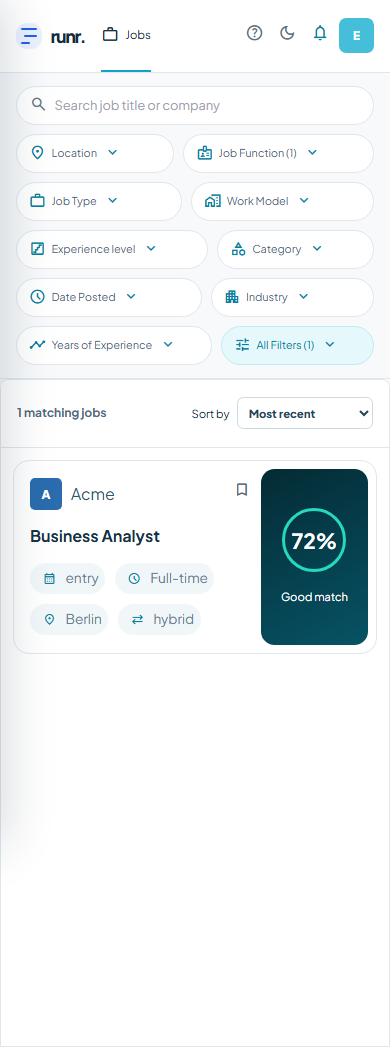
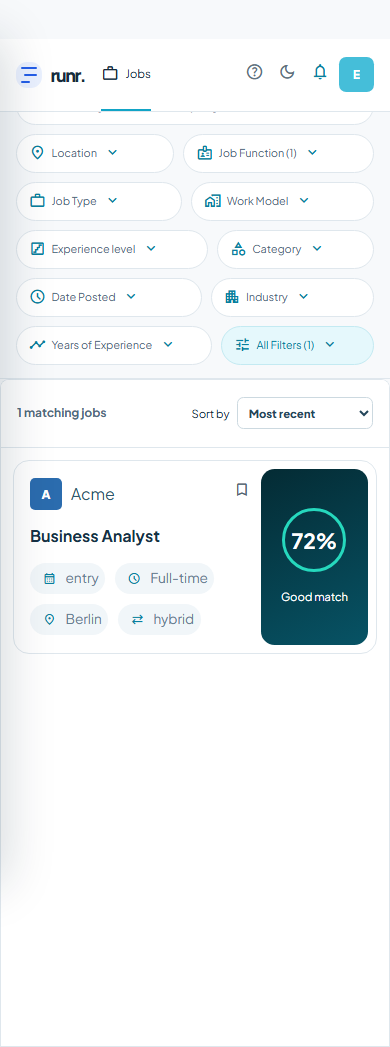
Verify CV-seeded profile matching and preserve profile edits

diff --git a/frontend/src/pages/ProfilePage.jsx b/frontend/src/pages/ProfilePage.jsx
@@ -67,7 +67,7 @@ export default function ProfilePage() {
   return <div className="career-profile">
     <header className="career-heading"><div><span className="career-eyebrow">Your career profile</span><h1>Profile</h1><p>Job matching uses this saved profile. Uploaded or tailored resumes do not change your match.</p></div><div><button className="career-button career-button--quiet" onClick={() => window.print()} type="button"><Icon>visibility</Icon>Preview profile</button><button className="career-button" disabled={saving || (!dirty && !preferencesDirty)} onClick={saveChanges} type="button"><Icon>save</Icon>{saving ? "Saving…" : "Save changes"}</button></div></header>
 
-    <section className="career-overview"><div className="career-avatar">{initials || "R"}</div><div className="career-identity"><h2>{name}</h2><p>{profile.role_title || "Add your role"} · {profile.location || "Add your location"}</p><span>Profile preview data</span></div><div className="career-completion"><div style={{ "--completion": `${completion * 3.6}deg` }}><strong>{completion}</strong></div><p><b>{completion}% complete</b><span>Add dated work experience, skills and industries to improve matching.</span></p><button onClick={() => openTab("preferences")} type="button">Finish profile</button></div><div className="career-ready"><Icon>verified</Icon><div><b>Match-ready</b><span>Your profile can support evidence-aware ranking.</span></div></div></section>
+    <section className="career-overview"><div className="career-avatar">{initials || "R"}</div><div className="career-identity"><h2>{name}</h2><p>{profile.role_title || "Add your role"} · {profile.location || "Add your location"}</p><span>Profile preview data</span></div><div className="career-completion"><div style={{ "--completion": `${completion * 3.6}deg` }}><strong>{completion}</strong></div><p><b>{completion}% complete</b><span>Add dated work experience, skills and industries to improve matching.</span></p><button onClick={() => openTab("preferences")} type="button">Finish profile</button></div><div className="career-ready"><Icon>verified</Icon><div><b>Profile-based matching</b><span>Saved skills and dated work support your job matches.</span></div></div></section>
 
     <nav className="career-tabs" aria-label="Profile sections">{tabs.map((tab) => <button className={activeTab === tab ? "is-active" : ""} key={tab} onClick={() => openTab(tab)} type="button">{tabLabels[tab]}</button>)}</nav>
 

diff --git a/frontend/src/App.jsx b/frontend/src/App.jsx
@@ -223,7 +223,7 @@ function AuthenticatedApp() {
     <AppShell muteSidebar={!hasSession}>
       <UpgradeModalHost />
       {hasSession ? (
-        <RouteErrorBoundary key={`${location.pathname}${location.search}`}>
+        <RouteErrorBoundary key={location.pathname === "/profile" ? location.pathname : `${location.pathname}${location.search}`}>
           <Suspense fallback={<RouteLoadingFallback />}>
             <Routes>
               <Route path="/" element={<HomePage />} />

diff --git a/scripts/populate_matching_profile_from_cv.py b/scripts/populate_matching_profile_from_cv.py
@@ -1,0 +1,45 @@
+"""Populate one saved account profile from its selected, already parsed CV."""
+from pathlib import Path
+import argparse,json,re,sys
+from datetime import datetime
+sys.path.insert(0,str(Path(__file__).resolve().parents[1]))
+from backend.config import load_project_dotenv
+from scripts.process_catalog_enrichment import execute
+from backend.api.server import _merge_profile_metadata
+from backend.domain.models import UserRecord,utc_now_iso
+
+def main():
+    parser=argparse.ArgumentParser()
+    parser.add_argument('--email',required=True)
+    parser.add_argument('--dry-run',action='store_true')
+    args=parser.parse_args()
+    load_project_dotenv()
+    rows=execute('SELECT user_id,payload_json FROM users WHERE lower(email)=?',[args.email.casefold()])
+    if len(rows)!=1:raise RuntimeError('Account must exist uniquely')
+    user=UserRecord.from_dict(json.loads(rows[0]['payload_json']))
+    document_id=user.metadata.get('cv_document_id')
+    source=execute("SELECT a.payload_json FROM candidate_documents d JOIN candidate_assets a ON a.asset_id=d.asset_id AND a.user_id=d.user_id WHERE d.user_id=? AND d.document_id=? AND a.asset_kind='workspace_cv'",[user.user_id,document_id])
+    if len(source)!=1:raise RuntimeError('Selected CV is not ready')
+    asset=json.loads(source[0]['payload_json'])
+    parsed=asset.get('metadata',{}).get('parsed_profile') or {}
+    if not parsed:raise RuntimeError('Selected CV has no parsed profile')
+    imported={k:parsed[k] for k in ['name','role_title','summary','competencies','languages','recent_experience','education','projects','industry'] if parsed.get(k)}
+    for item in imported.get('recent_experience',[]):
+        dates=re.findall(r'([A-Za-z]+)\s+(20\d{2})',item.get('period',''))
+        if len(dates)==2:
+            for key,value in zip(['start_date','end_date'],dates):
+                for fmt in ['%b %Y','%B %Y']:
+                    try:item[key]=datetime.strptime(' '.join(value),fmt).strftime('%Y-%m');break
+                    except ValueError:pass
+    old=user.metadata.get('profile') or {}
+    profile=_merge_profile_metadata(old,imported,user)
+    if not args.dry_run:
+        backup=Path('.backend_data/operator_backups') / ('profile_matching_'+user.user_id+'_before.json')
+        backup.parent.mkdir(parents=True,exist_ok=True)
+        if not backup.exists():backup.write_text(json.dumps({'user_id':user.user_id,'profile':old},ensure_ascii=False),encoding='utf-8')
+        execute("UPDATE users SET payload_json=json_set(payload_json,'$.metadata.profile',json(?)),updated_at=? WHERE user_id=? AND json_extract(payload_json,'$.metadata.cv_document_id')=?",[json.dumps(profile,ensure_ascii=False),utc_now_iso(),user.user_id,document_id])
+        saved=json.loads(execute("SELECT json_extract(payload_json,'$.metadata.profile') AS profile FROM users WHERE user_id=?",[user.user_id])[0]['profile'])
+        if saved['role_title']!=profile['role_title']:raise RuntimeError('Saved profile verification failed')
+    print(json.dumps({'saved':not args.dry_run,'cv_name':asset['display_name'],'role':profile['role_title'],'skills':len(profile['competencies']),'experiences':len(profile['recent_experience']),'dated_experiences':sum(bool(x.get('start_date') and x.get('end_date')) for x in profile['recent_experience']),'education':len(profile['education']),'industry_established':bool(profile.get('industry'))}))
+
+if __name__=='__main__':main()

diff --git a/backend/application/profile_job_matching.py b/backend/application/profile_job_matching.py
@@ -300,7 +300,7 @@ def evaluate_profile_match(facts, snapshot, *, today=None):
     known = [d["score"] for d in dimensions.values() if d["score"] is not None]
     overall = round(sum(known) / len(known)) if known else None
     return {"state": "available" if len(known) == 3 else "partial" if known else "insufficient_information",
-            "score": overall, "label": "Strong match" if overall is not None and overall >= 80 else "Good match" if overall is not None and overall >= 60 else "Partial match" if overall is not None else "Insufficient information",
+            "score": overall, "label": "Partial assessment" if known and len(known) < 3 else "Strong match" if overall is not None and overall >= 80 else "Good match" if overall is not None and overall >= 60 else "Partial match" if overall is not None else "Insufficient information",
             "dimensions": dimensions, "coverage": len(known), "evaluator_version": VERSION,
             "profile_version": snapshot.get("version_id"), "profile_source": "saved_profile",
             "posting_version": facts.get("posting_version"),

diff --git a/backend/repositories/sqlite_backed.py b/backend/repositories/sqlite_backed.py
@@ -1326,7 +1326,8 @@ class SqliteAuthRepository(_SqliteStore):
     def get_saved_profile(self, user_id: str) -> dict[str, Any]:
         """Read professional account profile without hydrating CV assets/documents."""
         with self._connect() as connection:
-            row = connection.execute("SELECT json_extract(payload_json, '$.metadata.profile') AS profile FROM users WHERE user_id=?", (user_id,)).fetchone()
+            rows = self._fetch_read_rows(connection, "SELECT json_extract(payload_json, '$.metadata.profile') AS profile FROM users WHERE user_id=?", (user_id,))
+            row = rows[0] if rows else None
         if row is None:
             raise KeyError(user_id)
         return dict(_deserialize(row["profile"], {}) or {})

diff --git a/data/audit/profile_job_matching_2026-10-07/REPORT.md b/data/audit/profile_job_matching_2026-10-07/REPORT.md
@@ -29,8 +29,17 @@ Synthetic 25-job scoring benchmark, 100 samples: median 36.24 ms, 95th percentil
 
 ## Validation and operating limits
 
-Focused tests cover profile/CV independence, separate users, alias boundaries and negation, required/preferred skills, overlapping dates, unknown fields, settings round trips, stale versions and concurrent queue revisions. Desktop/mobile Playwright covers card-only loading, lazy detail requests, breakdown/evidence, employer links, absence of embedded originals, back navigation and viewport overflow. Validation passed: 31 focused backend tests, 173 frontend unit tests, two Playwright projects and a production build. A further 14 feed performance/security checks passed after legacy-sort fallback was retired.
+Focused tests cover profile/CV independence, separate users, alias boundaries and negation, required/preferred skills, overlapping dates, unknown fields, settings round trips, stale versions and concurrent queue revisions. Desktop/mobile Playwright covers card-only loading, lazy detail requests, breakdown/evidence, employer links, absence of embedded originals, back navigation and viewport overflow. Validation passed: 32 focused backend tests, 173 frontend unit tests, two Playwright projects and a production build. A further 14 feed performance/security checks passed after legacy-sort fallback was retired.
 
 Reliability here means deterministic, reproducible, source-linked and conservative handling of unknowns. Human-labelled calibration has not been completed. The reviewed skill/industry ontology has finite coverage; unsupported extraction can yield partial assessments. Seniority bands and related-industry credit are explicit product rules, not a learned model. Education, licence and legal eligibility are not included in this three-dimension percentage. Original sources remain available through the employer link.
 
 Deployment verification is recorded in `deployment-verification.json` beside this report after the release and VPS backfill are checked.
+
+
+## Filled-profile checks
+
+The owner requested population from the selected uploaded CV. The saved profile now contains 22 competencies, four work experiences with converted source periods as month dates, and two education entries. Existing parsed CV data was reused; no extra AI call was needed. The CV did not establish an explicit industry, which remains unknown. Only the account profile JSON was changed; uploaded files and other account metadata were preserved. The previous profile was backed up locally outside Git.
+
+A browser regression fills a fictional QA profile with Power BI and three dated years of analyst work in Insurance. The actual Python evaluator produces Experience 100%, Skill 67%, Industry 50%, Overall 72%. Saving Python as another skill changes Skill to 100% and Overall to 83%. Both desktop and mobile pass. This test exposed and fixed loss of unsaved profile fields when switching tabs. Source-backed production job checks are recorded in `live-profile-job-test.json`; incomplete assessments are labelled Partial assessment rather than Strong match.
+
+During rollout, competing enrichment/publication writes produced 30-second Turso write timeouts. A controlled matching batch completed 100 jobs in 3.86 seconds after quiescing competing writes. Initial backfill is coordinated with a temporary four-worker description cap; normal description concurrency is restored after coverage is verified. This is separate from the evaluator CPU benchmark. Live end-to-end detail reads in the first production sample took approximately 5?8 seconds, so that sample does not establish a sub-second HTTP latency claim.
